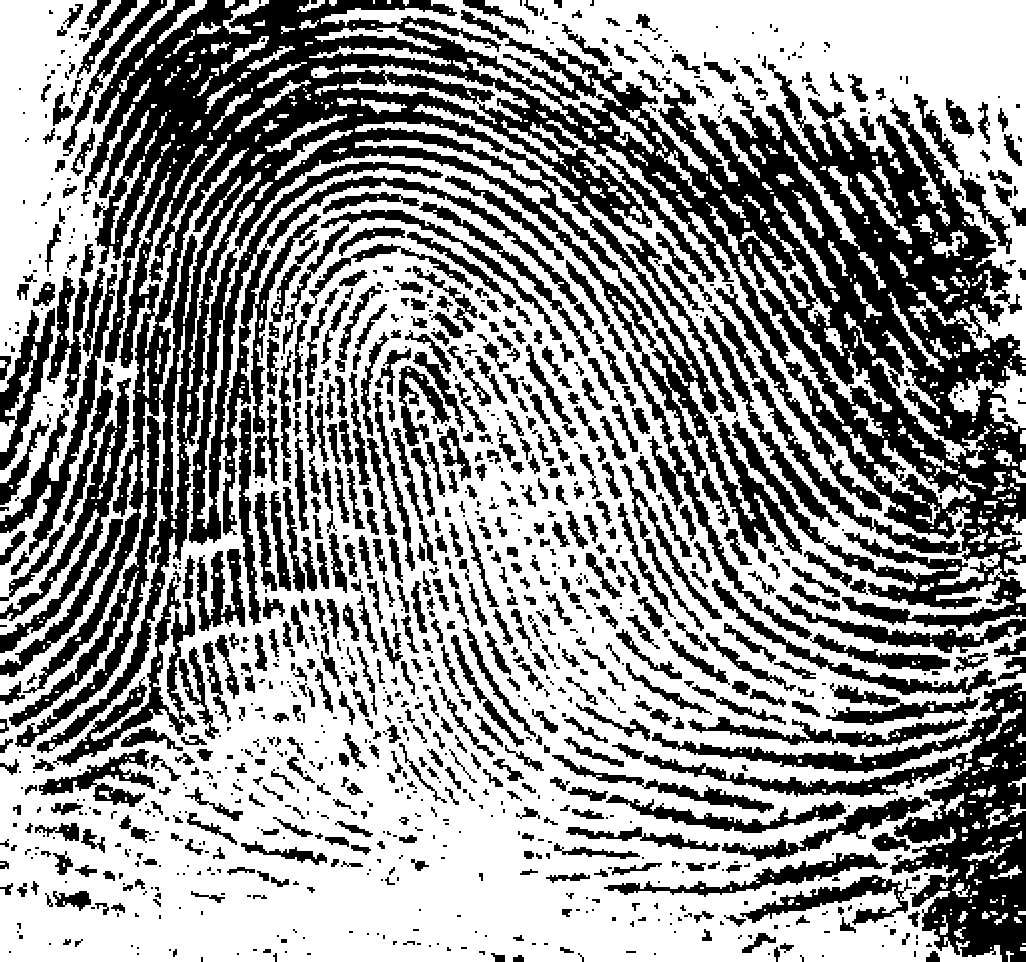
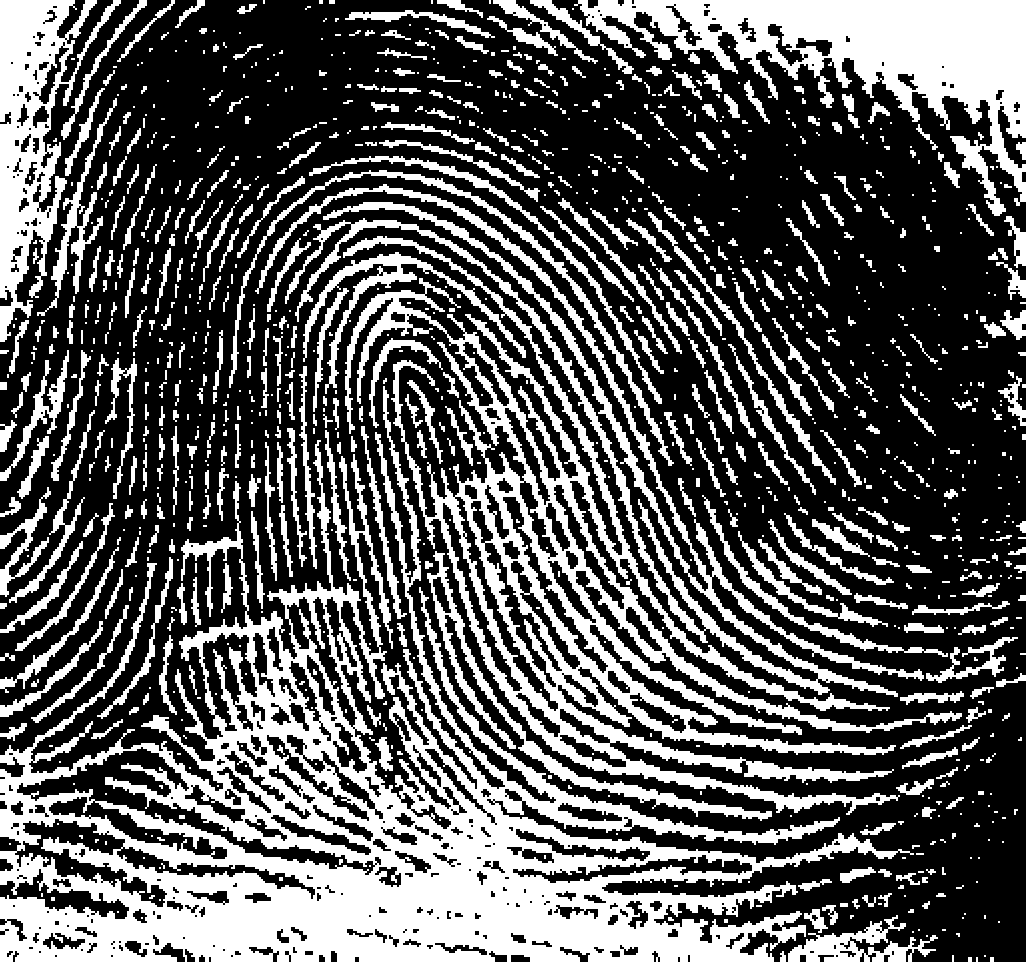
Fixed bugs and completed 2a

diff --git a/image_processing/assignment_3/task2a.py b/image_processing/assignment_3/task2a.py
@@ -20,17 +20,15 @@ def otsu_thresholding(im: np.ndarray) -> int:
     # You can also define other helper functions
     # Compute normalized histogram
 
-    INTENSITY_RANGE = 255  # Number of grayscale values [0-255]
+    # Number of grayscale values
+    INTENSITY_RANGE = im.max() - im.min() + 1
 
-    threshold = 128
     hist, bins = np.histogram(im, bins=INTENSITY_RANGE)
 
     # Normalize hist
     # New array so we don't mix up float and ints
-    hist_normalized = np.empty(INTENSITY_RANGE, dtype=float)
     number_of_pixels = im.shape[0] * im.shape[1]
-    for i in range(len(hist)):
-        hist_normalized[i] = float(hist[i]) / float(number_of_pixels)
+    hist_normalized = hist / number_of_pixels
 
     # Cumulative sums
     cumulative_sums = np.cumsum(hist_normalized)
@@ -41,13 +39,10 @@ def otsu_thresholding(im: np.ndarray) -> int:
     for i in range(1, len(hist_normalized)):
         cumulative_means[i] = cumulative_means[i - 1] + i * hist_normalized[i]
 
-    # Global mean
-    global_mean = 0
-    for i in range(len(hist_normalized)):
-        global_mean += i * hist_normalized[i]
+    # Global mean is the last element in cumulative means
+    global_mean = cumulative_means[-1]
 
     # Between-class variances
-    between_class_variances = np.empty(INTENSITY_RANGE, dtype=float)
     between_class_variances = (global_mean * cumulative_sums -
                                cumulative_means)**2 / (cumulative_sums * (1 - cumulative_sums))
 
@@ -59,6 +54,9 @@ def otsu_thresholding(im: np.ndarray) -> int:
             max_indexes.append(i)
 
     threshold = sum(max_indexes) / len(max_indexes)
+
+    # Add im.min() since we operate with arrays starting at 0, not im.min()
+    threshold += im.min()
 
     # plt.figure(figsize=(16, 5))
     # columns = 1
